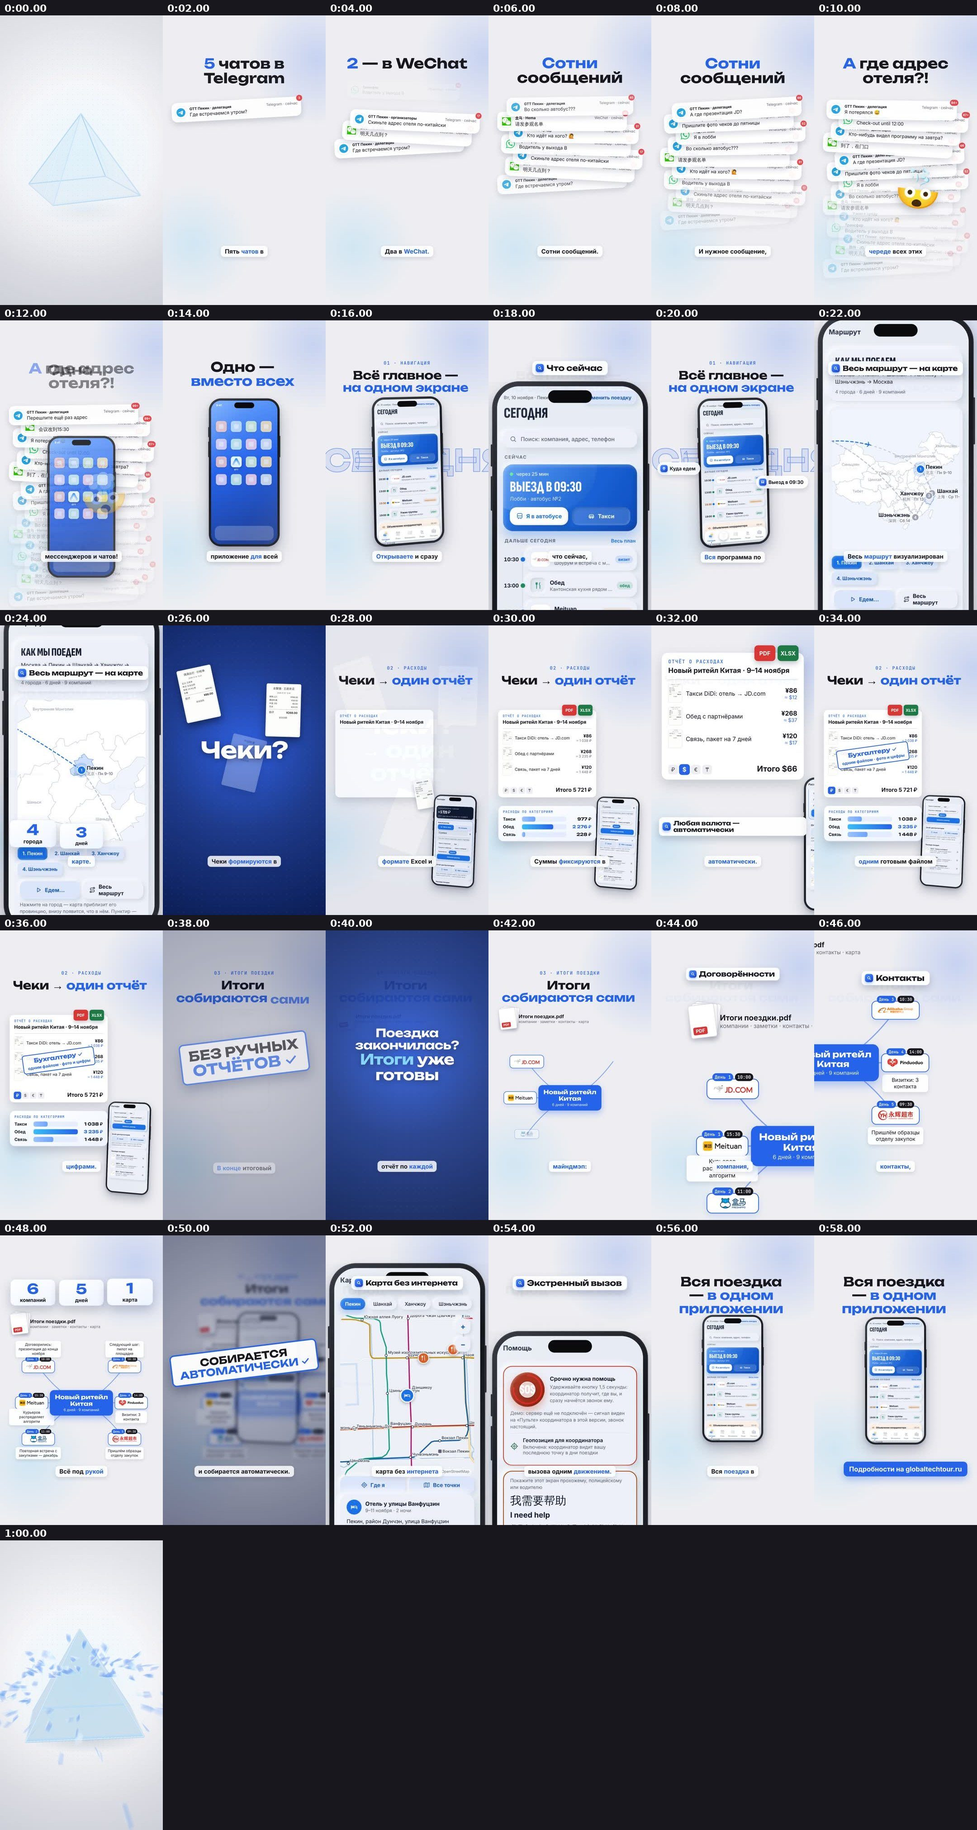
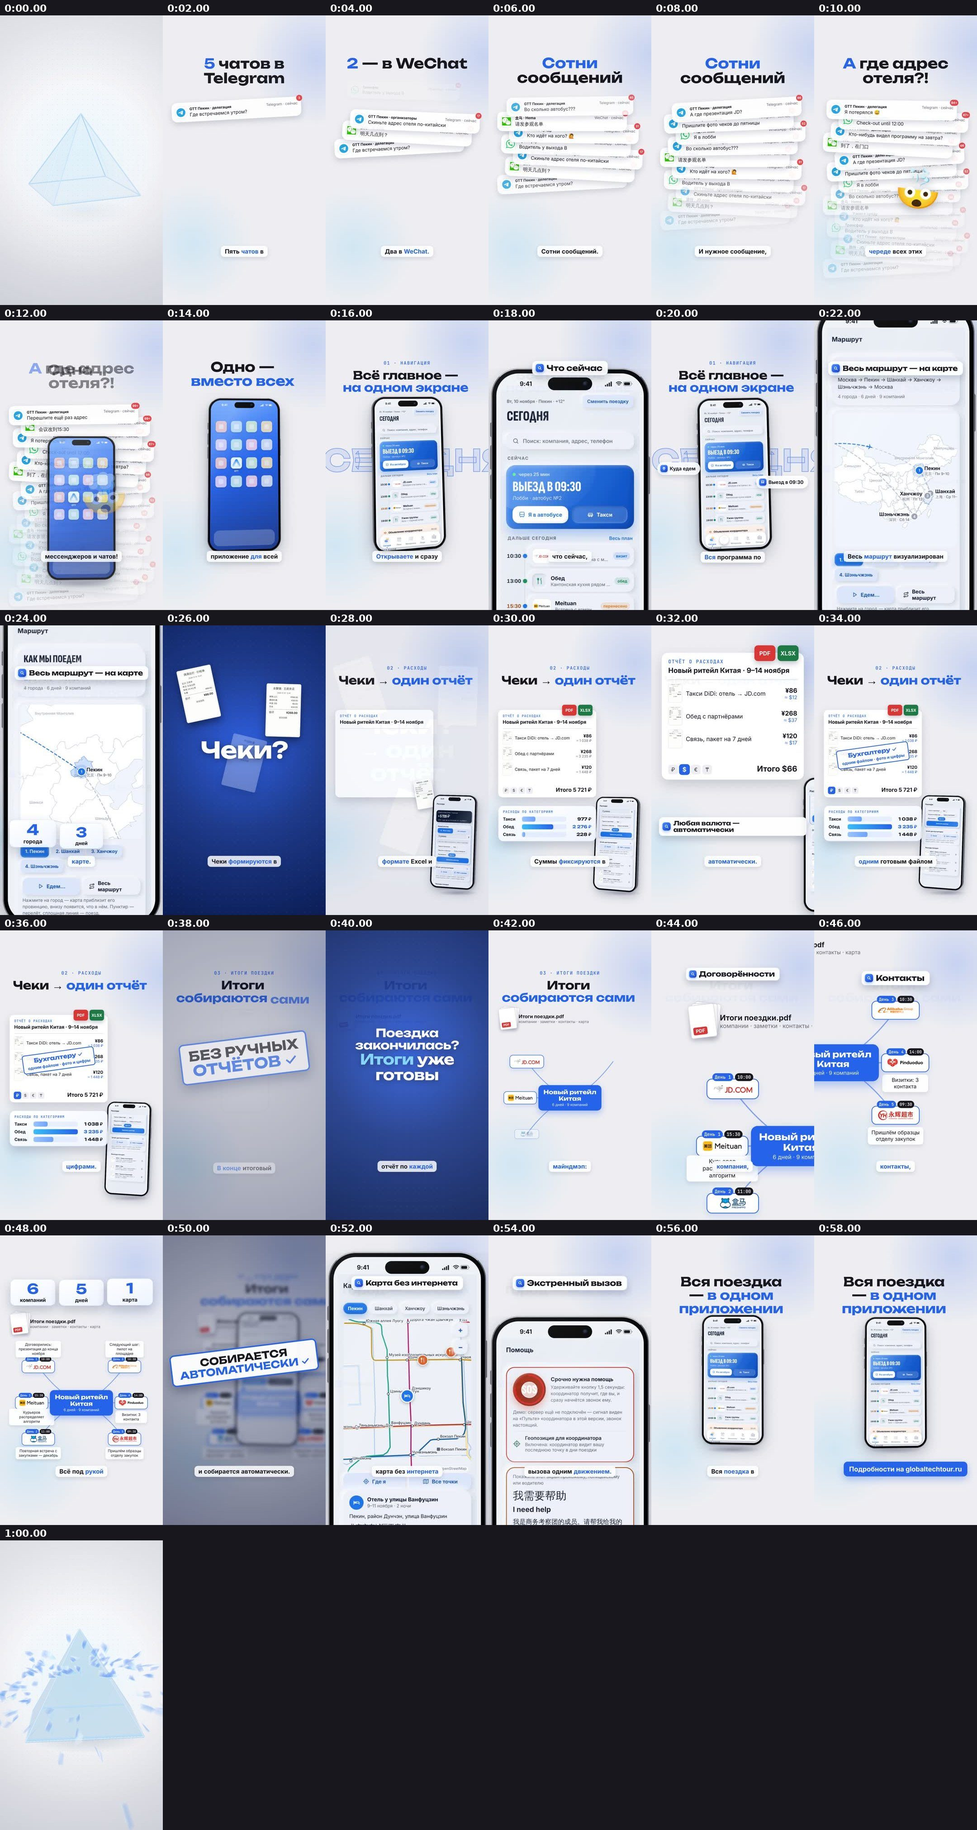
Ролик о приложении: объёмный реалистичный телефон — корпус с толщиной и титановым ободом, кнопки, стекло с отражением, статус-бар iOS, задняя крышка с камерами, тень; версия 1 мин перерендерена
Claude-Session: https://claude.ai/code/session_01GWbvgKxue3PjjbbHEP4BVJ

diff --git a/reels-studio/src/compositions/AppPromo.tsx b/reels-studio/src/compositions/AppPromo.tsx
@@ -90,40 +90,105 @@ const Stage: React.FC<{L: Layout}> = ({L}) => {
 };
 
 // ---------- телефон ----------
-const Phone: React.FC<{w: number; children: React.ReactNode; shadow?: number; shine?: number; back?: string}> = ({w, children, shadow = 1, shine = -1, back}) => {
+// v4.1 (решение пользователя 02.11.2026: «телефон не реалистичный, как будто плоский, как лист бумаги — сделай максимально
+// реалистичным»): настоящий объём в CSS 3D — корпус из слоёв по толщине (титановая рамка с бликом по скруглению), кнопки на
+// торцах, стекло экрана с отражением, которое ездит при повороте, задняя крышка с блоком камер и значком GTT (видна на обороте),
+// статус-бар iOS над приложением. Экран записи вписан под статус-бар: SB — его высота, CS — масштаб содержимого.
+export const SB = 0.054, CS = 1 - SB;
+const mix = (a: number[], b: number[], k: number) => `rgb(${a.map((v, i) => Math.round(v + (b[i] - v) * k)).join(",")})`;
+const StatusBar: React.FC<{w: number; tone: "dark" | "light"}> = ({w, tone}) => {
+  const c = tone === "light" ? "#ffffff" : "#0b0d12";
   const k = w / SCREEN_W;
-  const bez = Math.round(w * 0.035);
-  const sw = w, sh = SCREEN_H * k;
-  const r = w * 0.15;
+  const cy = w * 0.07;
   return (
-    <div style={{position: "relative", width: sw + bez * 2, height: sh + bez * 2, borderRadius: r + bez,
-      background: "linear-gradient(145deg, #3a3d46 0%, #15161a 40%, #2a2c33 100%)",
-      boxShadow: `0 ${50 * shadow}px ${110 * shadow}px rgba(20,30,60,${0.28 * shadow}), 0 ${12 * shadow}px ${30 * shadow}px rgba(20,30,60,${0.18 * shadow}), inset 0 0 0 2px rgba(255,255,255,0.10)`}}>
-      {/* кнопки сбоку */}
-      <div style={{position: "absolute", left: -4, top: sh * 0.2, width: 5, height: sh * 0.07, borderRadius: 3, background: "#2a2c33"}} />
-      <div style={{position: "absolute", left: -4, top: sh * 0.3, width: 5, height: sh * 0.11, borderRadius: 3, background: "#2a2c33"}} />
-      <div style={{position: "absolute", right: -4, top: sh * 0.26, width: 5, height: sh * 0.15, borderRadius: 3, background: "#2a2c33"}} />
-      <div style={{position: "absolute", left: bez, top: bez, width: sw, height: sh, borderRadius: r, overflow: "hidden", background: "#e8edf4"}}>
-        {children}
-        {/* стекло: мягкий блик */}
-        <div style={{position: "absolute", inset: 0, background: "linear-gradient(115deg, rgba(255,255,255,0.16) 0%, rgba(255,255,255,0) 28%, rgba(255,255,255,0) 70%, rgba(255,255,255,0.07) 100%)", pointerEvents: "none"}} />
-        {/* v3: блик проходит по стеклу на входе в сцену */}
-        {shine >= 0 && shine <= 1 ? (
-          <div style={{position: "absolute", top: "-20%", bottom: "-20%", width: "38%", left: `${-50 + shine * 170}%`, rotate: "18deg", pointerEvents: "none",
-            background: "linear-gradient(90deg, rgba(255,255,255,0) 0%, rgba(255,255,255,0.42) 50%, rgba(255,255,255,0) 100%)"}} />
-        ) : null}
-        {/* v3: спинка телефона, пока он развёрнут экраном от зрителя (оборот 360°) */}
-        {back ? (
-          <div style={{position: "absolute", inset: 0, background: "linear-gradient(150deg, #1e3a8a 0%, #0b1d55 55%, #081440 100%)", display: "flex", alignItems: "center", justifyContent: "center"}}>
-            <Img src={staticFile(back)} style={{width: w * 0.34, height: w * 0.34, borderRadius: w * 0.08, boxShadow: "0 0 60px rgba(125,211,252,0.55)"}} />
+    <div style={{position: "absolute", left: 0, top: 0, width: w, height: w * 0.14, pointerEvents: "none"}}>
+      <div style={{position: "absolute", left: w * 0.1, top: cy - 9 * k, width: w * 0.2, textAlign: "center", fontFamily: body.fontFamily, fontWeight: 700, fontSize: 16 * k, lineHeight: `${18 * k}px`, color: c, letterSpacing: "-0.01em"}}>9:41</div>
+      <svg width={74 * k} height={14 * k} viewBox="0 0 74 14" style={{position: "absolute", right: w * 0.075, top: cy - 7 * k}}>
+        {[0, 1, 2, 3].map((i) => <rect key={i} x={i * 5} y={10 - i * 3} width={3.4} height={4 + i * 3} rx={1} fill={c} />)}
+        <path d="M30 4.6a10 10 0 0114 0M32.4 7.4a6.4 6.4 0 019.2 0M35 10.2a2.8 2.8 0 014 0" fill="none" stroke={c} strokeWidth={1.9} strokeLinecap="round" />
+        <rect x={49} y={1.5} width={21} height={11} rx={3.4} fill="none" stroke={c} strokeOpacity={0.45} strokeWidth={1.2} />
+        <rect x={50.8} y={3.3} width={15.6} height={7.4} rx={2} fill={c} />
+        <path d="M71.4 5.4v3.2a1.6 1.6 0 000-3.2z" fill={c} fillOpacity={0.5} />
+      </svg>
+    </div>
+  );
+};
+const Phone: React.FC<{w: number; children: React.ReactNode; shadow?: number; shine?: number; ry?: number; backIcon?: string; tone?: "dark" | "light"}> = ({w, children, shadow = 1, shine = -1, ry = 0, backIcon, tone = "dark"}) => {
+  const bez = Math.round(w * 0.035);
+  const sw = w, sh = SCREEN_H * (w / SCREEN_W);
+  const r = w * 0.15;
+  const W = sw + bez * 2, H = sh + bez * 2, R = r + bez;
+  const D = Math.round(w * 0.105); // толщина корпуса
+  const N = 16;
+  const a = (ry * Math.PI) / 180;
+  const lightL = 0.55 + 0.45 * Math.max(0, Math.sin(-a) + 0.3), lightR = 0.55 + 0.45 * Math.max(0, Math.sin(a) + 0.3);
+  const DARK = [24, 26, 31], LITE = [196, 201, 210];
+  // отражение на стекле едет против поворота
+  const glareX = 30 - ry * 2.2;
+  const btn = (side: "l" | "r", top: number, h: number) =>
+    [-0.2, 0, 0.2].map((z, i) => (
+      <div key={`${side}${top}${i}`} style={{position: "absolute", [side === "l" ? "left" : "right"]: -w * 0.012, top: H * top, width: w * 0.02, height: H * h, borderRadius: w * 0.01,
+        transform: `translateZ(${z * D}px)`, background: `linear-gradient(${side === "l" ? 90 : 270}deg, ${mix(DARK, LITE, 0.75 * (side === "l" ? lightL : lightR))}, ${mix(DARK, LITE, 0.25)})`}} />
+    ));
+  return (
+    <div style={{position: "relative", width: W, height: H, transformStyle: "preserve-3d"}}>
+      {/* корпус по толщине: слои рамки, середина светлее (скруглённый титановый обод) */}
+      {Array.from({length: N}).map((_, i) => {
+        const tt = i / (N - 1);
+        const band = 0.18 + 0.82 * Math.pow(Math.sin(Math.PI * tt), 0.55);
+        return (
+          <div key={i} style={{position: "absolute", inset: 0, borderRadius: R, transform: `translateZ(${-D / 2 + tt * D}px)`,
+            background: `linear-gradient(100deg, ${mix(DARK, LITE, band * lightL)} 0%, ${mix(DARK, LITE, band * 0.42)} 48%, ${mix(DARK, LITE, band * lightR * 0.9)} 100%)`,
+            boxShadow: i === 0 ? `0 ${50 * shadow}px ${110 * shadow}px rgba(20,30,60,${0.3 * shadow}), 0 ${14 * shadow}px ${34 * shadow}px rgba(20,30,60,${0.2 * shadow})` : undefined}} />
+        );
+      })}
+      {btn("l", 0.165, 0.045)}{btn("l", 0.235, 0.075)}{btn("l", 0.325, 0.075)}{btn("r", 0.27, 0.115)}
+      {/* задняя крышка: матовое стекло GTT, блок камер, значок */}
+      <div style={{position: "absolute", inset: 0, borderRadius: R, transform: `translateZ(${-D / 2 - 0.6}px) rotateY(180deg)`, backfaceVisibility: "hidden",
+        background: "linear-gradient(150deg, #2a4ea8 0%, #13297a 48%, #0b1a4f 100%)", boxShadow: "inset 0 0 0 3px rgba(190,200,215,0.55), inset 0 0 40px rgba(0,0,0,0.35)", overflow: "hidden"}}>
+        <div style={{position: "absolute", inset: 0, background: `linear-gradient(${120 + ry * 0.6}deg, rgba(255,255,255,0) 30%, rgba(255,255,255,0.16) 48%, rgba(255,255,255,0) 62%)`}} />
+        <div style={{position: "absolute", left: W * 0.07, top: W * 0.07, width: W * 0.4, height: W * 0.4, borderRadius: W * 0.11, background: "linear-gradient(145deg, rgba(60,90,170,0.95), rgba(14,30,80,0.95))",
+          boxShadow: "inset 0 0 0 2px rgba(200,210,230,0.5), 0 6px 18px rgba(0,0,0,0.45)"}}>
+          {[[0.27, 0.27], [0.27, 0.73], [0.73, 0.5]].map(([x, y], i) => (
+            <div key={i} style={{position: "absolute", left: `${x * 100}%`, top: `${y * 100}%`, width: W * 0.15, height: W * 0.15, translate: "-50% -50%", borderRadius: "50%",
+              background: "radial-gradient(circle at 38% 35%, #4b5f86 0%, #0d1424 38%, #020307 70%)", boxShadow: "0 0 0 3px #2b3240, 0 0 0 5px rgba(210,215,225,0.6), 0 4px 10px rgba(0,0,0,0.6)"}} />
+          ))}
+          <div style={{position: "absolute", left: "73%", top: "22%", width: W * 0.045, height: W * 0.045, translate: "-50% -50%", borderRadius: "50%", background: "radial-gradient(circle, #fff8dc, #b8a77a)"}} />
+        </div>
+        {backIcon ? <Img src={staticFile(backIcon)} style={{position: "absolute", left: "50%", top: "52%", translate: "-50% -50%", width: W * 0.24, height: W * 0.24, borderRadius: W * 0.055, opacity: 0.92,
+          boxShadow: "0 0 40px rgba(125,211,252,0.5)"}} /> : null}
+      </div>
+      {/* лицевая сторона: чёрное стекло с полированной фаской и экраном */}
+      <div style={{position: "absolute", inset: 0, borderRadius: R, transform: `translateZ(${D / 2 + 0.6}px)`, backfaceVisibility: "hidden", background: "#030305"}}>
+        <div style={{position: "absolute", inset: 0, borderRadius: R, border: `${Math.max(2, w * 0.007)}px solid`, borderColor: `${mix(DARK, LITE, 0.95)} ${mix(DARK, LITE, 0.55 * lightR)} ${mix(DARK, LITE, 0.3)} ${mix(DARK, LITE, 0.8 * lightL)}`}} />
+        <div style={{position: "absolute", left: bez, top: bez, width: sw, height: sh, borderRadius: r, overflow: "hidden", background: "#eef1f6", boxShadow: "inset 0 0 0 1px rgba(0,0,0,0.5)"}}>
+          {children}
+          <StatusBar w={sw} tone={tone} />
+          {/* стекло: отражение студийного света, сдвигается при повороте */}
+          <div style={{position: "absolute", inset: 0, pointerEvents: "none",
+            background: `linear-gradient(118deg, rgba(255,255,255,0) ${glareX - 18}%, rgba(255,255,255,0.13) ${glareX}%, rgba(255,255,255,0.03) ${glareX + 14}%, rgba(255,255,255,0) ${glareX + 30}%)`}} />
+          {shine >= 0 && shine <= 1 ? (
+            <div style={{position: "absolute", top: "-20%", bottom: "-20%", width: "38%", left: `${-50 + shine * 170}%`, rotate: "18deg", pointerEvents: "none",
+              background: "linear-gradient(90deg, rgba(255,255,255,0) 0%, rgba(255,255,255,0.42) 50%, rgba(255,255,255,0) 100%)"}} />
+          ) : null}
+          {/* «остров» с объективом фронтальной камеры */}
+          <div style={{position: "absolute", left: sw / 2 - w * 0.15, top: w * 0.028, width: w * 0.3, height: w * 0.085, borderRadius: w * 0.05, background: "#050506"}}>
+            <div style={{position: "absolute", right: w * 0.03, top: "50%", width: w * 0.034, height: w * 0.034, translate: "0 -50%", borderRadius: "50%",
+              background: "radial-gradient(circle at 40% 35%, #2c3a58, #07090f 65%)"}} />
           </div>
-        ) : null}
-        {/* «остров» */}
-        <div style={{position: "absolute", left: sw / 2 - w * 0.15, top: w * 0.028, width: w * 0.3, height: w * 0.085, borderRadius: w * 0.05, background: "#0b0b0d"}} />
+        </div>
+        {/* блик по всему стеклу, включая рамку экрана */}
+        <div style={{position: "absolute", inset: 0, borderRadius: R, pointerEvents: "none", background: "linear-gradient(160deg, rgba(255,255,255,0.10) 0%, rgba(255,255,255,0) 22%)"}} />
       </div>
     </div>
   );
 };
+// экран записи, вписанный под статус-бар
+const Fit: React.FC<{children: React.ReactNode}> = ({children}) => (
+  <AbsoluteFill style={{background: "#eef1f6"}}>
+    <div style={{position: "absolute", left: `${((1 - CS) / 2) * 100}%`, top: `${SB * 100}%`, width: `${CS * 100}%`, height: `${CS * 100}%`, overflow: "hidden"}}>{children}</div>
+  </AbsoluteFill>
+);
 
 // ---------- позы телефона по сценам ----------
 type Pose = {x: number; y: number; s: number; ry: number; rz: number; o: number};
@@ -184,7 +249,6 @@ const HomeScreen: React.FC<{k: number; stills: string; pulse: number}> = ({k, st
   const gtt = icon(9);
   return (
     <AbsoluteFill style={{background: "linear-gradient(160deg, #6ea8ff 0%, #2563eb 45%, #1e3a8a 100%)"}}>
-      <div style={{position: "absolute", left: 30 * k, top: 18 * k, color: "white", fontFamily: body.fontFamily, fontWeight: 700, fontSize: 16 * k}}>9:41</div>
       {Array.from({length: 16}).map((_, i) => {
         if (i === 9) return null;
         const p = icon(i);
@@ -233,16 +297,16 @@ const ScreenBeat: React.FC<{b: Beat; p: AppPromoProps; k: number; enter: boolean
   const shade = enter ? interpolate(frame, [0, 10], [0.25, 0], clamp) : 0;
   let content: React.ReactNode = null;
   if (b.screen) {
-    content = <OffthreadVideo src={staticFile(b.screen)} muted style={{width: "100%", height: "100%", objectFit: "cover"}} />;
+    content = <Fit><OffthreadVideo src={staticFile(b.screen)} muted style={{width: "100%", height: "100%", objectFit: "cover"}} /></Fit>;
   } else if (b.visual === "reveal") {
     content = <HomeScreen k={k} stills={p.stills} pulse={Math.max(0, Math.sin((frame / fps) * 5))} />;
   } else if (b.visual === "wechat") {
     const y = interpolate(frame, [fps * 0.4, fps * 2.6], [0, -(2116 - 1688) / 2], {...clamp, easing: ease});
-    content = <Img src={staticFile(`${p.stills}/1-visit.png`)} style={{width: "100%", position: "absolute", top: y * (k * SCREEN_W / 390) / 2}} />;
+    content = <Fit><Img src={staticFile(`${p.stills}/1-visit.png`)} style={{width: "100%", position: "absolute", top: y * (k * SCREEN_W / 390) / 2}} /></Fit>;
   } else if (b.visual === "counter") {
-    content = <Img src={staticFile(`${p.stills}/${b.still || "start-globe.png"}`)} style={{width: "100%", height: "100%", objectFit: "cover"}} />;
+    content = <Fit><Img src={staticFile(`${p.stills}/${b.still || "start-globe.png"}`)} style={{width: "100%", height: "100%", objectFit: "cover"}} /></Fit>;
   } else if (b.visual === "final") {
-    content = <Img src={staticFile(`${p.stills}/today.png`)} style={{width: "100%", height: "100%", objectFit: "cover"}} />;
+    content = <Fit><Img src={staticFile(`${p.stills}/today.png`)} style={{width: "100%", height: "100%", objectFit: "cover"}} /></Fit>;
   }
   // запуск приложения с главного экрана: иконка раскрывается в экран
   const launch = b.launch !== undefined ? b.launch - b.w0 : null;
@@ -471,9 +535,11 @@ const Three: React.FC<{b: Beat; L: Layout; p: AppPromoProps}> = ({b, L, p}) => {
         const x = (L.W - total) / 2 + i * (w * 1.07 + gap);
         return (
           <div key={i} style={{position: "absolute", left: x, top: y0 + (i === 1 ? -30 : 20) - 40 * lift * on, opacity: s, translate: `0 ${(1 - s) * 120}px`, rotate: `${(i - 1) * 4 * (1 - s * 0.6)}deg`, scale: String(1 + 0.05 * lift * on)}}>
-            <Phone w={w} shadow={0.7}>
-              <Img src={staticFile(`${p.stills}/${srcs[i]}`)} style={{width: "100%", height: srcs[i].includes("visit") ? "auto" : "100%", objectFit: "cover"}} />
-            </Phone>
+            <div style={{transform: `perspective(1800px) rotateY(${(1 - i) * 16 + Math.sin(frame / fps * 0.8 + i) * 3}deg) rotateX(4deg)`, transformStyle: "preserve-3d"}}>
+              <Phone w={w} shadow={0.7} ry={(1 - i) * 16}>
+                <Fit><Img src={staticFile(`${p.stills}/${srcs[i]}`)} style={{width: "100%", height: srcs[i].includes("visit") ? "auto" : "100%", objectFit: "cover"}} /></Fit>
+              </Phone>
+            </div>
             <div style={{marginTop: 26, textAlign: "center", fontFamily: body.fontFamily, fontWeight: 700, fontSize: isH ? 32 : 30, color: on === 1 ? C.accent : C.text, opacity: frame >= said ? 1 : 0.5}}>{bw.text}</div>
           </div>
         );
@@ -985,6 +1051,9 @@ export const AppPromo: React.FC<AppPromoProps> = (p) => {
     else if (t >= flipAt && t < flipAt + 0.26) flipRy = interpolate(t, [flipAt, flipAt + 0.26], [-90, 0], {...clamp, easing: Easing.out(Easing.quad)});
   }
   const float = Math.sin(t * 1.1) * 8;
+  // v4.1: телефон «в руке» — лёгкое покачивание и наклон, чтобы был виден объём корпуса
+  const curB0 = beats[bi];
+  const toneNow: "dark" | "light" = curB0?.visual === "reveal" || (curB0?.launch !== undefined && t < curB0.launch + 0.3) ? "light" : "dark";
   // v3: переход на стыке сцен — «камера» (наезд-сквозь, смаз), поворот телефона на 360°, оверлеи (вспышка, круг, шторки)
   const tr = transAt(beats, t);
   const cam = camOf(tr);
@@ -1020,7 +1089,8 @@ export const AppPromo: React.FC<AppPromoProps> = (p) => {
     const F = {x: L.W / 2, y: isH ? 560 : 950};
     const params = (z: Zoom, pan: number) => {
       if (z.box) {
-        const bx = z.to ? z.box.map((v, i) => v + (z.to![i] - v) * pan) : z.box;
+        const b0 = z.to ? z.box.map((v, i) => v + (z.to![i] - v) * pan) : z.box;
+        const bx = [(1 - CS) / 2 + b0[0] * CS, SB + b0[1] * CS, b0[2] * CS, b0[3] * CS];
         const bez = Math.round(L.phoneW * 0.035);
         const lx = bez + (bx[0] + bx[2] / 2) * SCREEN_W * k, ly = bez + (bx[1] + bx[3] / 2) * SCREEN_H * k;
         const bw = bx[2] * SCREEN_W * k * pose.s, bh = bx[3] * SCREEN_H * k * pose.s;
@@ -1049,6 +1119,9 @@ export const AppPromo: React.FC<AppPromoProps> = (p) => {
   // в монтаже функций заголовок остаётся (на светлой полосе сверху), подпись наезда — внизу
   const featNow = !!beats[bi]?.feature;
   const textK = featNow ? 1 : 1 - Math.max(zk, topWK) * 0.97;
+  const swayY = Math.sin(t * 0.55) * 5 * (1 - zk);
+  const tiltX = (3 + Math.sin(t * 0.42 + 1) * 2.2) * (1 - zk);
+  const ryEff = pose.ry * (1 - zk) + flipRy + spinRy + swayY;
 
   // громкость музыки: громче до голоса и в финале
   const firstVoice = beats[0].start, lastVoice = beats[beats.length - 1].end;
@@ -1117,15 +1190,20 @@ export const AppPromo: React.FC<AppPromoProps> = (p) => {
         );
       })}
 
+      {/* v4.1: мягкая тень телефона на «полу» */}
+      {pose.o > 0.02 ? (
+        <div style={{position: "absolute", left: pose.x - phoneOuterW * 0.44 * pose.s - ryEff * 1.6, top: pose.y + phoneOuterH * pose.s + 18 + floatZ * 0.3, width: phoneOuterW * 0.88 * pose.s, height: 54 * pose.s,
+          borderRadius: "50%", background: "radial-gradient(ellipse at center, rgba(20,30,60,0.30) 0%, rgba(20,30,60,0.12) 45%, rgba(20,30,60,0) 72%)", opacity: pose.o * (1 - 0.35 * (floatZ + 8) / 16) * (1 - zk)}} />
+      ) : null}
       {/* телефон */}
-      <div style={{position: "absolute", left: pose.x - phoneOuterW / 2, top: pose.y + floatZ, width: phoneOuterW, height: phoneOuterH, opacity: pose.o,
-        transform: `perspective(2400px) rotateY(${pose.ry * (1 - zk) + flipRy + spinRy}deg) rotateZ(${pose.rz * (1 - zk)}deg) scale(${pose.s * (1 - 0.12 * Math.sin(Math.PI * Math.min(1, spinRy / 360)))})`, transformOrigin: "50% 0%"}}>
-        <div style={{translate: `${zx}px ${zy}px`, scale: String(zoom), transformOrigin: "50% 50%"}}>
-          <Phone w={L.phoneW} shine={shine} back={spinRy % 360 > 90 && spinRy % 360 < 270 ? `${p.stills}/app-icon.png` : undefined}>
+      <div style={{position: "absolute", left: pose.x - phoneOuterW / 2, top: pose.y + floatZ, width: phoneOuterW, height: phoneOuterH, opacity: pose.o < 0.999 ? pose.o : undefined, transformStyle: "preserve-3d",
+        transform: `perspective(2400px) rotateX(${tiltX}deg) rotateY(${ryEff}deg) rotateZ(${pose.rz * (1 - zk)}deg) scale(${pose.s * (1 - 0.12 * Math.sin(Math.PI * Math.min(1, spinRy / 360)))})`, transformOrigin: "50% 0%"}}>
+        <div style={{translate: `${zx}px ${zy}px`, scale: String(zoom), transformOrigin: "50% 50%", transformStyle: "preserve-3d"}}>
+          <Phone w={L.phoneW} shine={shine} ry={ryEff} backIcon={`${p.stills}/app-icon.png`} tone={toneNow}>
             <ScreenStack p={p} beats={beats} k={k} />
             {(p.taps as {at: number; x: number; y: number; hold: number}[]).map((tp, i) => (
               <Sequence key={`tap${i}`} from={f(tp.at) - f(0.35)} durationInFrames={f(0.35) + f(tp.hold) + 18} layout="none">
-                <AbsoluteFill><Tap x={tp.x} y={tp.y} hold={tp.hold} k={k} /></AbsoluteFill>
+                <AbsoluteFill><Tap x={(1 - CS) / 2 + tp.x * CS} y={SB + tp.y * CS} hold={tp.hold} k={k} /></AbsoluteFill>
               </Sequence>
             ))}
           </Phone>
